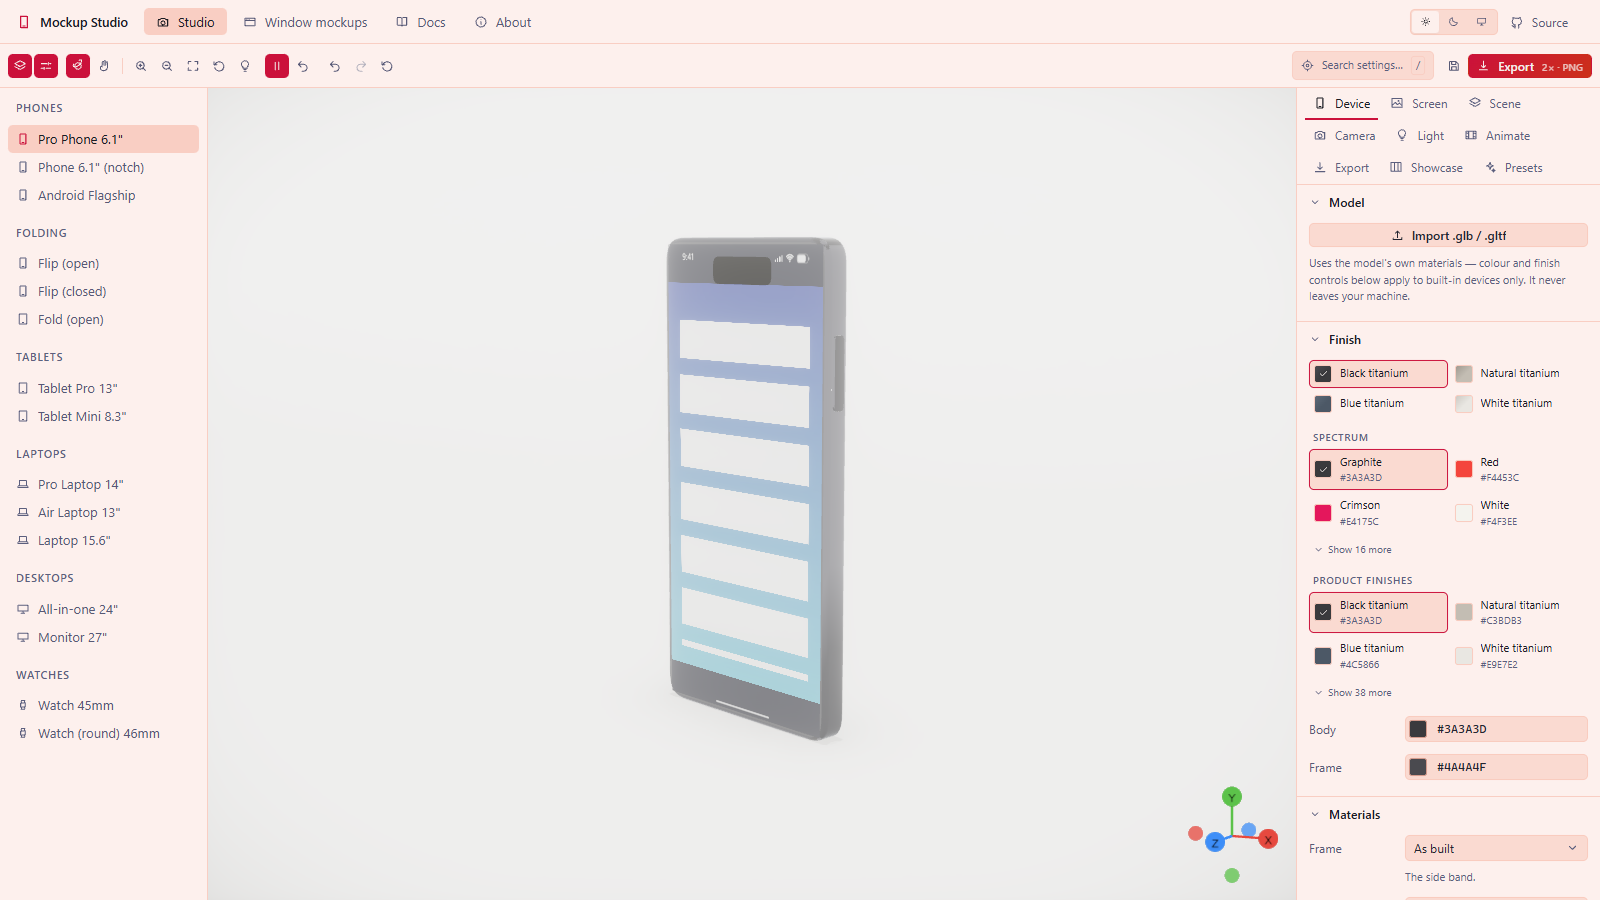
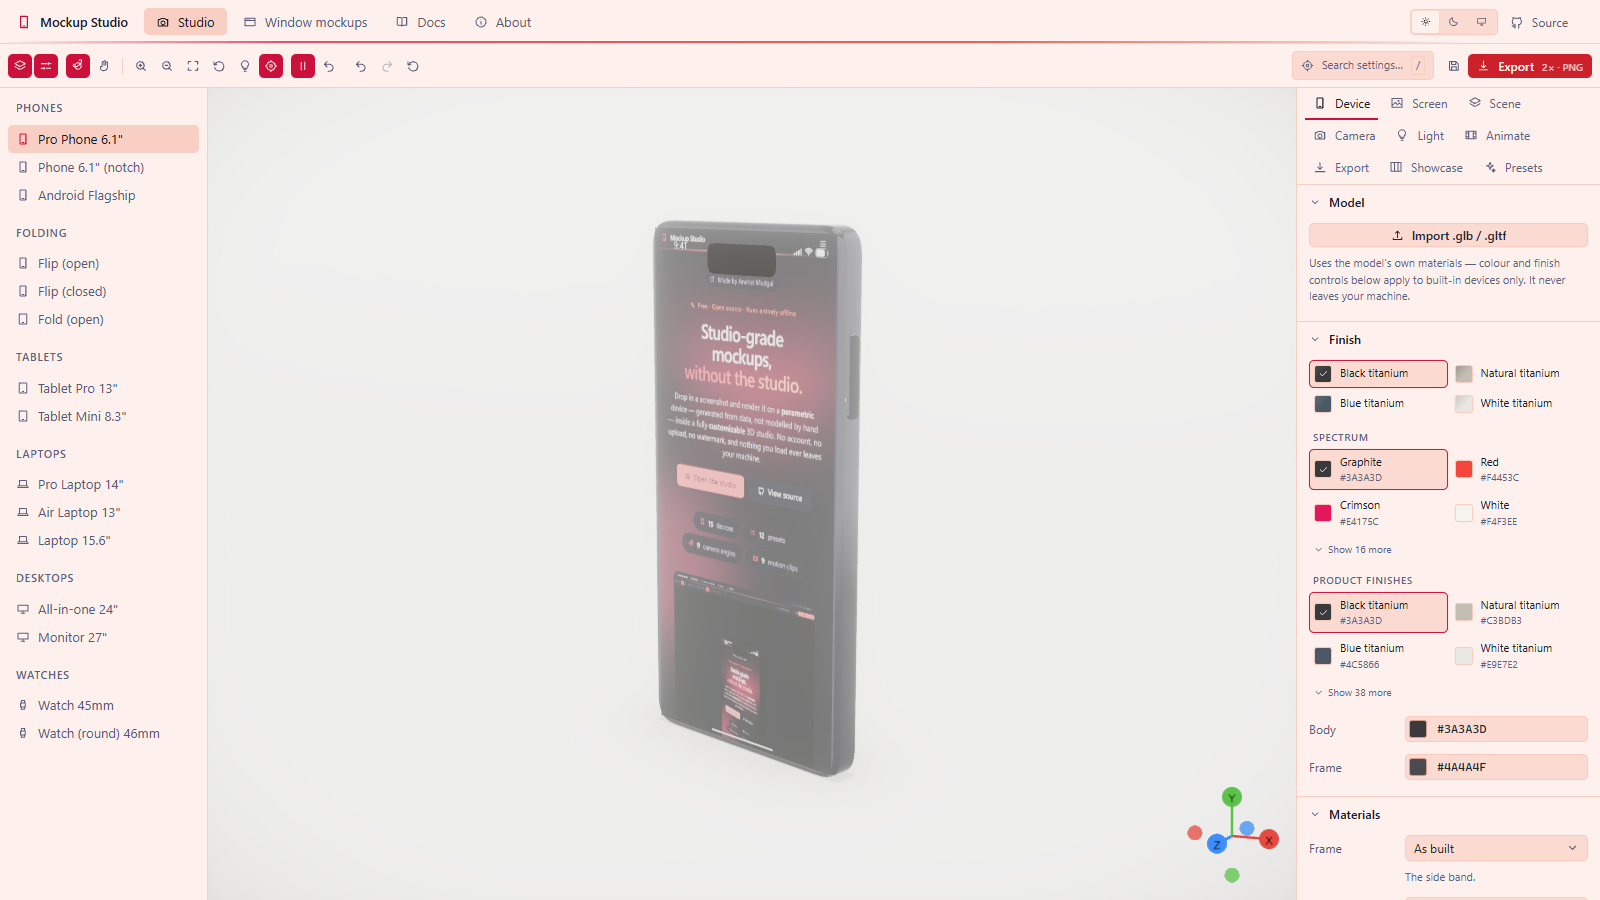
feat(shots): photograph the app with the app, and let the gizmo be hidden
The marketing screenshots had a synthetic indigo gradient on the phone. That
fixture exists so a regression script can tell one upload from another, and it
looks like exactly that. A landing page has to look like a landing page or the
mockup is not selling anything.

make-shot-fixtures.mjs captures this app's own pages at real device resolutions
and feeds them back in. Photographing ourselves rather than someone else is the
only honest option on a public repo — any real product's UI is their design and
their trademark, and a mockup tool shipping a competitor's homepage in its own
hero is a problem no licence fixes. It also stays current as the app changes,
and regenerating it is one command.

The README banner is now the laptop carrying a desktop-shaped capture on the hex
field, rather than a portrait phone in a 16:9 frame with empty margin either
side. A wide shot wants a wide subject.

Hiding the orientation gizmo is a new toolbar toggle rather than something the
capture script pokes. Exports already strip it — it is an editing aid — but
there was no way to get a clean viewport *on screen*, which is what you want
while judging a composition and what a screenshot of the app needs. It unmounts
rather than hiding, so the extra Hud render pass goes with it.

Both contact-sheet sweeps gained a `details` grid at closer range, which is what
made the deck, the strap and the stands judgeable at all.

Claude-Session: https://claude.ai/code/session_01YNzFnEjWZDTuJ6Vwxk5UCR

Changed region(s): [[0.4062, 0.2489, 0.5625, 0.8711], [0.1562, 0.0311, 0.2188, 0.0933], [0.75, 0.9022, 0.7812, 0.9644]]

diff --git a/src/state/slices/ui.ts b/src/state/slices/ui.ts
@@ -47,6 +47,16 @@ export interface UiState {
    * captured into a preset or appear in an export.
    */
   showLightGizmos: boolean
+  /**
+   * Orientation gizmo in the corner of the viewport.
+   *
+   * View state for the same reason the light markers are: an editing aid that
+   * must never reach a preset. Exports already strip it (`axisGizmoGuard`), but
+   * until this existed there was no way to get a clean viewport on *screen* —
+   * which is what you want while judging a composition, and what a screenshot
+   * of the app needs.
+   */
+  showAxisGizmo: boolean
 }
 
 export interface UiSlice {
@@ -62,6 +72,7 @@ export interface UiSlice {
   focusSetting: (tab: InspectorTab, label: string) => void
   clearHighlight: () => void
   toggleLightGizmos: () => void
+  toggleAxisGizmo: () => void
 }
 
 export const createUiSlice: SliceCreator<UiSlice> = (set) => ({
@@ -75,6 +86,7 @@ export const createUiSlice: SliceCreator<UiSlice> = (set) => ({
     paletteOpen: false,
     highlight: null,
     showLightGizmos: false,
+    showAxisGizmo: true,
   },
   setInspectorTab: (tab) =>
     set((draft) => {
@@ -132,6 +144,11 @@ export const createUiSlice: SliceCreator<UiSlice> = (set) => ({
   toggleLightGizmos: () =>
     set((draft) => {
       draft.ui.showLightGizmos = !draft.ui.showLightGizmos
+    }),
+
+  toggleAxisGizmo: () =>
+    set((draft) => {
+      draft.ui.showAxisGizmo = !draft.ui.showAxisGizmo
     }),
 })
 

diff --git a/src/app/layout/ViewportControls.tsx b/src/app/layout/ViewportControls.tsx
@@ -28,6 +28,8 @@ export function ViewportControls() {
   const resetCamera = useAppStore((state) => state.resetCamera)
   const showGizmos = useAppStore((state) => state.ui.showLightGizmos)
   const toggleGizmos = useAppStore((state) => state.toggleLightGizmos)
+  const showAxis = useAppStore((state) => state.ui.showAxisGizmo)
+  const toggleAxis = useAppStore((state) => state.toggleAxisGizmo)
 
   return (
     <div className={styles.cluster} role="group" aria-label="Viewport">
@@ -66,6 +68,13 @@ export function ViewportControls() {
         size="sm"
         active={showGizmos}
         onClick={toggleGizmos}
+      />
+      <IconButton
+        icon="target"
+        label={showAxis ? 'Hide orientation gizmo' : 'Show orientation gizmo'}
+        size="sm"
+        active={showAxis}
+        onClick={toggleAxis}
       />
     </div>
   )

diff --git a/src/features/scene/gizmo/AxisGizmo.tsx b/src/features/scene/gizmo/AxisGizmo.tsx
@@ -44,12 +44,18 @@ const LABEL_COLOR = '#000000'
  */
 export function AxisGizmo() {
   const target = useAppStore((state) => state.camera.target)
+  const shown = useAppStore((state) => state.ui.showAxisGizmo)
   const groupRef = useRef<Group>(null)
 
   useLayoutEffect(() => {
     registerAxisGizmoGroup(groupRef.current)
     return () => registerAxisGizmoGroup(null)
-  }, [])
+  }, [shown])
+
+  // Unmounted rather than hidden, so the extra `Hud` render pass goes away with
+  // it. The capture guard still covers exports, which have to strip the gizmo
+  // whether or not the user has it switched on.
+  if (!shown) return null
 
   return (
     <GizmoHelper

diff --git a/docs/planning/CHECKLIST.md b/docs/planning/CHECKLIST.md
@@ -77,6 +77,10 @@ at the results, which is the only way these show up.
 | R2 | Keyboard deck was five rows of identical keycaps. Now a real layout: wide space bar, stepped left edge, short function row, inverted-T arrows | DONE |
 | R3 | **Bug:** the trackpad overhung the front edge of the laptop base, and the keyboard plane stretched its texture | DONE |
 | R4 | Monitor and iMac stood on rectangular slabs — the stand radii were fixed millimetres, invisible on a 240mm foot. Now proportional | DONE |
+| R8 | **Bug:** the screenshot texture had no mip chain, so fine UI text crawled at any angle; the Dock and menu bar were a third too large against a display no Mac has | DONE |
+| R9 | **Bug:** applying a built-in look replaced the chosen device with the default phone, and carried over camera/plinth/shadow sized for it | DONE |
+| R10 | Marketing screenshots now use the app's own pages as the on-device content, captured by `scripts/make-shot-fixtures.mjs` | DONE |
+| R11 | Toolbar toggle for the orientation gizmo — exports stripped it, but there was no way to get a clean viewport on screen | DONE |
 | R7 | **Bug:** the contact shadow was drawn from below the floor, compressing into a grey streak past the product at Low hero and while orbiting under | DONE |
 | R5 | Audit every catalogue spec against published dimensions. `spec/screenAspect.test.ts` cross-checks each screen's geometry against its published display aspect and caught seven | DONE |
 | R6 | Speaker/mic cutouts, ports, MagSafe ring, laptop feet, fold and flip hinge crease | TODO |
